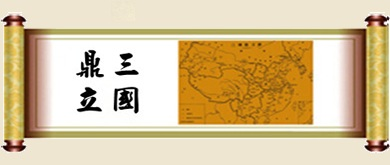
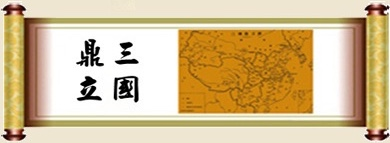
调整布局细节

diff --git a/src/ui/layaUI.max.all.js b/src/ui/layaUI.max.all.js
@@ -55,7 +55,7 @@ var menu1UI=(function(_super){
 			laya.ui.Component.prototype.createChildren.call(this);
 			this.createView(menu1UI.uiView);
 		}
-		menu1UI.uiView={"type":"View","props":{"width":800,"height":480},"child":[{"type":"Image","props":{"y":0,"x":0,"skin":"img/gmstart.jpg"}},{"type":"Image","props":{"y":227,"x":28,"var":"newGame","skin":"img/gmnew.jpg"}},{"type":"Image","props":{"y":352,"x":416,"var":"exitGame","skin":"img/gmend.jpg"}},{"type":"Image","props":{"y":352,"x":28,"var":"aboutWork","skin":"img/gmwork.jpg"}},{"type":"Image","props":{"y":226,"x":416,"var":"backGame","skin":"img/gmback.jpg"}}]};
+		menu1UI.uiView={"type":"View","props":{"width":800,"height":480},"child":[{"type":"Image","props":{"y":0,"x":0,"skin":"img/gmstart.jpg"}},{"type":"Image","props":{"y":227,"x":28,"var":"newGame","skin":"img/gmnew.jpg"}},{"type":"Image","props":{"y":352,"x":414,"var":"exitGame","skin":"img/gmend.jpg"}},{"type":"Image","props":{"y":352,"x":28,"var":"aboutWork","skin":"img/gmwork.jpg"}},{"type":"Image","props":{"y":226,"x":415,"var":"backGame","skin":"img/gmback.jpg"}}]};
 		return menu1UI;
 	})(View);
 var menu2UI=(function(_super){
@@ -77,14 +77,14 @@ var menu2UI=(function(_super){
 			laya.ui.Component.prototype.createChildren.call(this);
 			this.createView(menu2UI.uiView);
 		}
-		menu2UI.uiView={"type":"View","props":{"width":800,"height":480},"child":[{"type":"Image","props":{"y":-5,"x":5,"skin":"img/history.jpg"}},{"type":"Image","props":{"y":125,"x":17,"var":"dznq","skin":"img/_1dznq.jpg"}},{"type":"Image","props":{"y":125,"x":414,"var":"ccjq","skin":"img/_2ccjq.jpg"}},{"type":"Image","props":{"y":287,"x":17,"var":"cbzz","skin":"img/_3cbzz.jpg"}},{"type":"Image","props":{"y":287,"x":415,"var":"sgdl","skin":"img/_4sgdl.jpg"}},{"type":"Image","props":{"y":0,"x":700,"var":"backBtn","skin":"img/back.jpg"}}]};
+		menu2UI.uiView={"type":"View","props":{"width":800,"height":480},"child":[{"type":"Image","props":{"y":0,"x":0,"skin":"img/history.jpg"}},{"type":"Image","props":{"y":142,"x":8,"var":"dznq","skin":"img/_1dznq.jpg"}},{"type":"Image","props":{"y":283,"x":9,"var":"ccjq","skin":"img/_2ccjq.jpg"}},{"type":"Image","props":{"y":139,"x":407,"var":"cbzz","skin":"img/_3cbzz.jpg"}},{"type":"Image","props":{"y":282,"x":409,"var":"sgdl","skin":"img/_4sgdl.jpg"}},{"type":"Button","props":{"y":428,"x":698,"width":100,"var":"backBtn","stateNum":1,"skin":"img/btn_bg.jpg","labelSize":20,"label":"返回","height":50}}]};
 		return menu2UI;
 	})(View);
 var selectLordUI=(function(_super){
 		function selectLordUI(){
 			
-		    this.backBtn=null;
 		    this.lordList=null;
+		    this.backBtn=null;
 
 			selectLordUI.__super.call(this);
 		}
@@ -96,6 +96,6 @@ var selectLordUI=(function(_super){
 			laya.ui.Component.prototype.createChildren.call(this);
 			this.createView(selectLordUI.uiView);
 		}
-		selectLordUI.uiView={"type":"View","props":{"width":800,"height":480},"child":[{"type":"Image","props":{"y":0,"x":0,"skin":"img/white.jpg"}},{"type":"Image","props":{"y":80,"x":230,"skin":"img/who.jpg"}},{"type":"Image","props":{"y":0,"x":700,"var":"backBtn","skin":"img/back.jpg"}},{"type":"List","props":{"y":40,"x":40,"var":"lordList","repeatY":10,"repeatX":1,"name":"m_label"},"child":[{"type":"Label","props":{"width":107,"text":"赵云","strokeColor":"#ffffff","stroke":5,"renderType":"render","name":"render","height":40,"fontSize":30,"color":"#210732","bold":true}}]},{"type":"VScrollBar","props":{"y":57,"x":130,"name":"scrollBar"}}]};
+		selectLordUI.uiView={"type":"View","props":{"width":800,"height":480},"child":[{"type":"Image","props":{"y":0,"x":0,"skin":"img/white.jpg"}},{"type":"Image","props":{"y":40,"x":40,"width":538,"skin":"img/who.jpg","height":400}},{"type":"List","props":{"y":44,"x":624,"width":131,"var":"lordList","repeatY":8,"repeatX":1,"name":"m_label","height":354},"child":[{"type":"Label","props":{"width":107,"text":"赵云","strokeColor":"#ffffff","stroke":5,"renderType":"render","name":"render","height":40,"fontSize":30,"color":"#210732","bold":true}}]},{"type":"VScrollBar","props":{"y":50,"x":732,"name":"scrollBar"}},{"type":"Button","props":{"y":428,"x":590,"width":100,"stateNum":1,"skin":"img/btn_bg.jpg","labelSize":20,"label":"确定","height":50}},{"type":"Button","props":{"y":428,"x":698,"width":100,"var":"backBtn","stateNum":1,"skin":"img/btn_bg.jpg","labelSize":20,"label":"返回","height":50}}]};
 		return selectLordUI;
 	})(View);

diff --git a/src/LayaUISample.js b/src/LayaUISample.js
@@ -2,13 +2,21 @@ var Event = Laya.Event;
 var Handler = Laya.Handler;
 
 Laya.init(800, 480, Laya.WebGL);
+Laya.stage.screenMode = Laya.Stage.SCREEN_HORIZONTAL;
+// Laya.stage.fullScreenEnabled = true;
+Laya.stage.scaleMode = Laya.Stage.SCALE_FIXED_AUTO;
+
+// Laya.stage.scaleMode = Laya.Stage.SCALE_NOBORDER;
+// Laya.stage.alignH = Laya.Stage.ALIGN_CENTER;
+// Laya.stage.alignV = Laya.Stage.ALIGN_MIDDLE;
+
 loadImages();
 showCG();
 
 function loadImages(tl) {
   Laya.loader.load(['cg/cg_01.jpg', 'cg/cg_02.jpg', 'cg/cg_03.jpg', 'cg/cg_04.jpg', 'cg/cg_05.jpg']);
   Laya.loader.load(['img/gmstart.jpg']);
-  Laya.loader.load(['img/history.jpg', 'img/back.jpg']);
+  Laya.loader.load(['img/history.jpg', 'img/btn_bg.jpg']);
   Laya.loader.load(['img/white.jpg', 'img/who.jpg']);
   Laya.loader.load(['img/map.jpg', 'img/right.jpg']);
 }
@@ -72,6 +80,6 @@ function showBattlefiled() {
   battlefield.load();
 }
 
-setTimeout(function() {
-  showBattlefiled();
-}, 2000);
+// setTimeout(function() {
+//   showBattlefiled();
+// }, 2000);

diff --git a/bin/index.html b/bin/index.html
@@ -36,6 +36,8 @@
 	<!--自定义的js(bin/js文件夹下)文件自动添加到下面jsfile模块标签里面里，js的顺序可以手动修改，修改后保留修改的顺序，新增加的js会默认依次追加到标签里-->
 	<!--删除标签，ide不会自动添加js文件，请谨慎操作-->
 	<!--jsfile--startTag-->
+	<script src="../src/Game.js"></script>
+	<script src="../src/data.js"></script>
 	<script src="../src/Battlefield.js"></script>
 	<script src="../src/Menu.js"></script>
 	<script src="../src/LayaUISample.js"></script>

diff --git a/src/Battlefield.js b/src/Battlefield.js
@@ -21,7 +21,7 @@ Battlefiled.prototype.load = function() {
 }
 
 Battlefiled.prototype.completeHandler = function () {
-  console.log(2222);
+
 }
 
 //鼠标按下拖动地图
